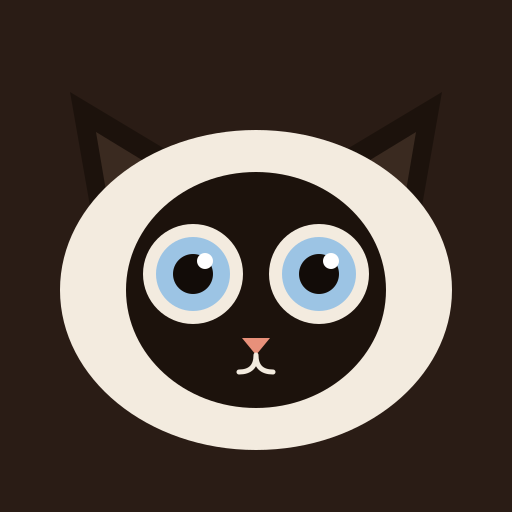
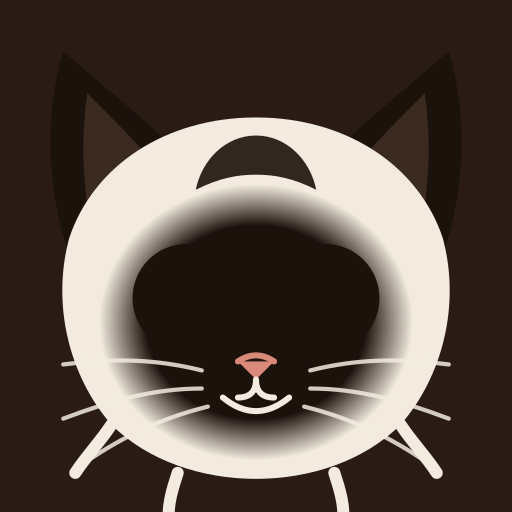
Azami en pied, une pose par page
Assise à l'accueil, balai au ménage, dans le cabas aux courses, à sa table de comptable pour l'argent, roulée en boule la nuit ; bouche ouverte quand elle miaule. Icône redessinée.

Claude-Session: https://claude.ai/code/session_01FmbBbPYR3Uqmj4jvUphPos

diff --git a/azami.js b/azami.js
@@ -1,0 +1,118 @@
+// Azami en pied, une pose par page. Dessin vectoriel seal point, yeux bleus.
+// Les parties (tête, yeux, museau) sont partagées ; le corps et l'accessoire changent.
+
+const C = { seal: '#1C120C', seal2: '#3A2A20', creme: '#F3EBDF', ombre: '#DCCFBB', bleu: '#9CC4E4', bleuF: '#4E7FAE', nez: '#D98A7A', langue: '#E07A80', blanc: '#FFFFFF', fauve: '#B8A48F', bois: '#8E6A45' };
+
+const DEFS = `<defs>
+  <radialGradient id="mask" cx="50%" cy="50%" r="50%"><stop offset="0" stop-color="${C.seal}"/><stop offset=".7" stop-color="${C.seal}"/><stop offset="1" stop-color="${C.seal}" stop-opacity="0"/></radialGradient>
+  <radialGradient id="iris" cx="40%" cy="35%" r="65%"><stop offset="0" stop-color="#D9EBF8"/><stop offset=".5" stop-color="${C.bleu}"/><stop offset="1" stop-color="${C.bleuF}"/></radialGradient>
+  <linearGradient id="point" x1="0" y1="0" x2="0" y2="1"><stop offset="0" stop-color="${C.creme}"/><stop offset="1" stop-color="${C.seal}"/></linearGradient>
+</defs>`;
+
+// Tête, repère local : centre du crâne en (0,0), largeur ~150. Oreilles orientables.
+function head({ earL = 0, earR = 0, open = 1, lookX = 0, lookY = 0, happy = false, lid = 0, mouth = 'smile', brows = false } = {}) {
+  const eye = (cx) => `
+    <circle cx="${cx}" cy="4" r="17" fill="${C.creme}"/>
+    <g style="transform:translate(${lookX}px,${lookY}px)">
+      <circle cx="${cx}" cy="4" r="12.5" fill="url(#iris)"/><circle cx="${cx}" cy="4.5" r="6.5" fill="#120C08"/>
+      <circle cx="${cx + 4}" cy="-1" r="3" fill="${C.blanc}"/><circle cx="${cx - 4}" cy="8" r="1.5" fill="${C.blanc}" opacity=".7"/>
+    </g>
+    ${happy ? `<circle cx="${cx}" cy="4" r="18" fill="${C.seal}"/><path d="M${cx - 13} 2 Q${cx} 16 ${cx + 13} 2" fill="none" stroke="${C.creme}" stroke-width="3" stroke-linecap="round"/>` : ''}
+    <g style="transform-origin:${cx}px -14px;transform:scaleY(${happy ? 0 : lid})"><circle cx="${cx}" cy="4" r="18" fill="${C.seal}"/></g>
+    ${happy ? '' : `<g class="blink" style="transform-origin:${cx}px -14px;transform:scaleY(0)"><circle cx="${cx}" cy="4" r="18" fill="${C.seal}"/></g>`}`;
+  const mouths = {
+    smile: `<path d="M0 31 Q0 37 -6 37 M0 31 Q0 37 6 37 M-11 37 Q0 46 11 37" fill="none" stroke="${C.creme}" stroke-width="2" stroke-linecap="round"/>`,
+    hmm:   `<path d="M0 31 Q0 37 -6 37 M0 31 Q0 37 6 37 M-8 41 Q0 39 9 42" fill="none" stroke="${C.creme}" stroke-width="2" stroke-linecap="round"/>`,
+    hungry:`<path d="M0 31 Q0 37 -6 37 M0 31 Q0 37 6 37" fill="none" stroke="${C.creme}" stroke-width="2" stroke-linecap="round"/><path d="M1 38 Q6 48 0 49 Q-5 49 -4 41" fill="${C.langue}" stroke="${C.creme}" stroke-width="1"/>`,
+    yawn:  `<ellipse cx="0" cy="40" rx="8" ry="9" fill="${C.seal2}" stroke="${C.creme}" stroke-width="1.6"/><path d="M-4 45 Q0 50 4 45 Z" fill="${C.langue}"/>`,
+    meow:  `<path d="M0 31 Q0 36 -5 36 M0 31 Q0 36 5 36" fill="none" stroke="${C.creme}" stroke-width="2" stroke-linecap="round"/><ellipse cx="0" cy="42" rx="6" ry="5.5" fill="${C.seal2}" stroke="${C.creme}" stroke-width="1.6"/>`,
+  };
+  return `<g class="head">
+    <g class="ear" style="transform-origin:-36px -22px;--r:${earL}deg;transform:rotate(${earL}deg)"><path d="M-62 -10 C-70 -34 -70 -58 -64 -78 C-48 -64 -32 -52 -18 -36 Z" fill="${C.seal}"/><path d="M-54 -16 C-58 -34 -58 -50 -56 -64 C-46 -54 -36 -44 -28 -34 Z" fill="${C.seal2}"/></g>
+    <g class="ear" style="transform-origin:36px -22px;--r:${earR}deg;transform:rotate(${earR}deg)"><path d="M62 -10 C70 -34 70 -58 64 -78 C48 -64 32 -52 18 -36 Z" fill="${C.seal}"/><path d="M54 -16 C58 -34 58 -50 56 -64 C46 -54 36 -44 28 -34 Z" fill="${C.seal2}"/></g>
+    <path d="M0 -56 C30 -56 54 -40 62 -16 C68 6 62 30 48 46 C36 58 18 64 0 64 C-18 64 -36 58 -48 46 C-62 30 -68 6 -62 -16 C-54 -40 -30 -56 0 -56 Z" fill="${C.creme}"/>
+    <path d="M-48 46 C-52 52 -56 56 -60 62 M48 46 C52 52 56 56 60 62 M-26 62 C-28 68 -29 72 -29 76 M26 62 C28 68 29 72 29 76" stroke="${C.creme}" stroke-width="4" stroke-linecap="round"/>
+    <ellipse cx="0" cy="12" rx="52" ry="46" fill="url(#mask)"/>
+    <path d="M0 -50 C10 -50 18 -42 20 -32 C12 -36 6 -37 0 -37 C-6 -37 -12 -36 -20 -32 C-18 -42 -10 -50 0 -50 Z" fill="${C.seal}" opacity=".9"/>
+    ${brows ? `<path d="M-42 -20 L-16 -10 M42 -20 L16 -10" stroke="${C.seal}" stroke-width="3.5" stroke-linecap="round"/>` : ''}
+    ${eye(-23)}${eye(23)}
+    <path d="M-6 25 L6 25 L0 31 Z" fill="${C.nez}"/><path d="M-6 25 Q0 21 6 25" fill="none" stroke="${C.nez}" stroke-width="2" stroke-linecap="round"/>
+    ${mouths[mouth] || mouths.smile}
+    <g stroke="${C.creme}" stroke-width="1.4" stroke-linecap="round" opacity=".85" fill="none"><path d="M-18 28 C-34 24 -48 24 -64 26 M-18 34 C-34 34 -48 38 -64 44 M-16 40 C-32 44 -44 50 -56 58 M18 28 C34 24 48 24 64 26 M18 34 C34 34 48 38 64 44 M16 40 C32 44 44 50 56 58"/></g>
+  </g>`;
+}
+
+// Corps assis de face : poitrail crème, pattes avant seal, queue seal.
+function sitBody({ tail = 'left' } = {}) {
+  const t = tail === 'left'
+    ? `<path d="M-58 150 C-100 150 -120 120 -112 92 C-108 78 -96 72 -88 78" fill="none" stroke="${C.seal}" stroke-width="16" stroke-linecap="round"/>`
+    : `<path d="M58 150 C100 150 120 120 112 92 C108 78 96 72 88 78" fill="none" stroke="${C.seal}" stroke-width="16" stroke-linecap="round"/>`;
+  return `<g class="body">
+    ${t}
+    <path d="M0 40 C44 40 76 70 78 112 C80 134 70 152 56 158 L-56 158 C-70 152 -80 134 -78 112 C-76 70 -44 40 0 40 Z" fill="${C.creme}"/>
+    <path d="M-70 128 C-70 140 -64 152 -56 158 L-28 158 C-30 146 -36 134 -46 126 Z M70 128 C70 140 64 152 56 158 L28 158 C30 146 36 134 46 126 Z" fill="${C.ombre}"/>
+    <path d="M-40 100 C-40 130 -40 150 -38 158 L-18 158 C-16 146 -18 128 -22 104 Z" fill="url(#point)"/>
+    <path d="M40 100 C40 130 40 150 38 158 L18 158 C16 146 18 128 22 104 Z" fill="url(#point)"/>
+    <ellipse cx="-29" cy="158" rx="13" ry="7" fill="${C.seal}"/><ellipse cx="29" cy="158" rx="13" ry="7" fill="${C.seal}"/>
+    <g fill="${C.seal2}"><circle cx="-36" cy="157" r="2"/><circle cx="-29" cy="155" r="2"/><circle cx="-22" cy="157" r="2"/><circle cx="22" cy="157" r="2"/><circle cx="29" cy="155" r="2"/><circle cx="36" cy="157" r="2"/></g>
+  </g>`;
+}
+
+const svg = (inner, vb = '-150 -90 300 270') => `<svg class="azami" viewBox="${vb}" aria-hidden="true">${DEFS}${inner}</svg>`;
+
+export const AZAMI = {
+  // Accueil : assise bien droite, queue enroulée, contente de vous voir.
+  maison: () => svg(sitBody({ tail: 'left' }) + head({ mouth: 'smile', lookX: 0, lookY: 0 })),
+
+  // Ménage : debout sur ses pattes arrière, balai dans les pattes, sourcils froncés.
+  menage: () => svg(`
+    <g class="body">
+      <path d="M46 170 C70 170 86 140 82 100 C78 70 48 56 24 62 L-24 62 C-48 56 -78 70 -82 100 C-86 140 -70 170 -46 170 Z" fill="${C.creme}"/>
+      <path d="M-30 110 C-32 140 -30 160 -26 170 L-6 170 C-4 150 -8 126 -14 108 Z M30 110 C32 140 30 160 26 170 L6 170 C4 150 8 126 14 108 Z" fill="url(#point)"/>
+      <ellipse cx="-18" cy="170" rx="14" ry="7" fill="${C.seal}"/><ellipse cx="18" cy="170" rx="14" ry="7" fill="${C.seal}"/>
+      <path d="M-70 168 C-110 160 -124 130 -112 104" fill="none" stroke="${C.seal}" stroke-width="14" stroke-linecap="round"/>
+      <g class="broom" style="transform-origin:62px 84px"><path d="M62 -60 L62 150" stroke="${C.bois}" stroke-width="6" stroke-linecap="round"/><path d="M44 148 L80 148 L90 178 L34 178 Z" fill="${C.fauve}"/><g stroke="${C.seal2}" stroke-width="1.6"><path d="M44 156 L40 176 M52 150 L50 178 M62 150 L62 178 M72 150 L74 178 M80 156 L84 176"/></g><rect x="52" y="140" width="20" height="9" rx="2" fill="${C.seal2}"/></g>
+      <path d="M-44 80 C-62 90 -66 106 -56 120" fill="none" stroke="${C.creme}" stroke-width="15" stroke-linecap="round"/><ellipse cx="-56" cy="122" rx="9" ry="8" fill="${C.seal}"/>
+      <path d="M44 76 C56 80 62 86 62 96" fill="none" stroke="${C.creme}" stroke-width="15" stroke-linecap="round"/><ellipse cx="62" cy="100" rx="9" ry="8" fill="${C.seal}"/>
+    </g>
+    ${head({ earL: -10, earR: 10, lid: .25, lookX: 2, mouth: 'hmm', brows: true })}`),
+
+  // Courses : assise dans un cabas en osier, une sardine dans la patte, la langue sortie.
+  courses: () => svg(`
+    <path d="M-100 90 L100 90 L88 176 L-88 176 Z" fill="${C.fauve}"/>
+    <g stroke="${C.seal2}" stroke-width="1.5" opacity=".6"><path d="M-96 108 L96 108 M-94 126 L94 126 M-92 144 L92 144 M-90 162 L90 162"/><path d="M-70 90 L-64 176 M-40 90 L-36 176 M-10 90 L-8 176 M20 90 L18 176 M50 90 L46 176 M80 90 L74 176"/></g>
+    <path d="M-60 90 C-60 50 60 50 60 90" fill="none" stroke="${C.bois}" stroke-width="7" stroke-linecap="round"/>
+    <g style="transform:translate(0,-10px) scale(.92)">
+      ${sitBody({ tail: 'right' })}
+    </g>
+    <g class="fish" style="transform-origin:90px 80px"><path d="M66 80 C80 64 102 64 116 80 C102 96 80 96 66 80 Z" fill="${C.bleu}"/><path d="M116 80 L132 70 L126 80 L132 90 Z" fill="${C.bleu}"/><circle cx="78" cy="77" r="2.5" fill="${C.seal}"/><path d="M96 72 C104 80 104 84 98 90" fill="none" stroke="${C.bleuF}" stroke-width="1.5"/></g>
+    <path d="M-100 90 L100 90 L96 118 L-96 118 Z" fill="${C.fauve}"/>
+    <path d="M-96 108 L96 108" stroke="${C.seal2}" stroke-width="1.5" opacity=".6"/>
+    ${head({ earL: 4, earR: -4, happy: true, mouth: 'hungry' })}`),
+
+  // Argent : à sa petite table, lunettes, piles de pièces, une pièce entre les coussinets.
+  argent: () => svg(`
+    ${sitBody({ tail: 'left' })}
+    <rect x="-120" y="118" width="240" height="12" rx="3" fill="${C.bois}"/><rect x="-108" y="130" width="10" height="46" fill="${C.bois}"/><rect x="98" y="130" width="10" height="46" fill="${C.bois}"/>
+    <g class="coins"><g fill="#E6C25A" stroke="#B8923A" stroke-width="2"><rect x="-100" y="106" width="36" height="7" rx="3"/><rect x="-100" y="98" width="36" height="7" rx="3"/><rect x="-100" y="90" width="36" height="7" rx="3"/><rect x="-100" y="82" width="36" height="7" rx="3"/><rect x="60" y="106" width="36" height="7" rx="3"/><rect x="60" y="98" width="36" height="7" rx="3"/><rect x="66" y="90" width="24" height="7" rx="3"/></g>
+    <g class="coin" style="transform-origin:0px 100px"><circle cx="0" cy="100" r="17" fill="#E6C25A" stroke="#B8923A" stroke-width="2.5"/><text x="0" y="106" text-anchor="middle" font-family="Hanken Grotesk, sans-serif" font-size="15" font-weight="800" fill="#8A6A20">1</text></g></g>
+    <path d="M-34 96 C-30 106 -22 112 -12 112 M34 96 C30 106 22 112 12 112" fill="none" stroke="${C.seal}" stroke-width="14" stroke-linecap="round"/>
+    ${head({ lookY: 7, lid: .18, mouth: 'hmm' })}
+    <g fill="none" stroke="${C.fauve}" stroke-width="2.5"><circle cx="-23" cy="4" r="21"/><circle cx="23" cy="4" r="21"/><path d="M-2 4 L2 4 M-44 2 L-60 -6 M44 2 L60 -6"/></g>`),
+
+  // Nuit : roulée en boule, queue sur le nez, petit ronflement.
+  nuit: () => svg(`
+    <ellipse cx="0" cy="120" rx="118" ry="58" fill="${C.creme}"/>
+    <path d="M-60 150 C-40 174 20 176 60 160" fill="none" stroke="${C.ombre}" stroke-width="10" stroke-linecap="round"/>
+    <path d="M110 120 C130 100 110 70 70 80 C40 88 20 100 0 106" fill="none" stroke="${C.seal}" stroke-width="16" stroke-linecap="round"/>
+    <ellipse cx="-78" cy="158" rx="16" ry="8" fill="${C.seal}"/><ellipse cx="-50" cy="164" rx="16" ry="8" fill="${C.seal}"/>
+    <g style="transform:translate(-30px,88px) rotate(-12deg) scale(.9)">${head({ earL: 10, earR: -6, lid: .9, lookY: 4, mouth: 'smile' })}</g>
+    <path class="zz" d="M70 10 L88 10 L70 28 L88 28" fill="none" stroke="${C.bleu}" stroke-width="3" stroke-linecap="round" stroke-linejoin="round"/>
+    <path class="zz z2" d="M96 -18 L108 -18 L96 -6 L108 -6" fill="none" stroke="${C.bleu}" stroke-width="2.5" stroke-linecap="round" stroke-linejoin="round"/>`),
+
+  // Miaulement : debout, bouche ouverte, utilisée un instant quand Azami miaule.
+  meow: () => svg(sitBody({ tail: 'right' }) + head({ earL: -4, earR: 4, happy: true, mouth: 'meow' })),
+
+  // Icône : tête seule, cadrée serré.
+  icon: () => svg(head({ mouth: 'smile' }), '-85 -95 170 170'),
+};

diff --git a/app.js b/app.js
@@ -1,6 +1,8 @@
 // Maison : l'app du foyer.
 // Sans configuration Supabase, l'app tourne en mode démo (données locales).
 
+import { AZAMI } from './azami.js';
+
 const CFG = window.MAISON_CONFIG || {};
 const DEMO = !(CFG.supabaseUrl && CFG.supabaseKey);
 const $app = document.getElementById('app');
@@ -24,6 +26,7 @@ const S = {
   recovery: false,     // arrivée par un lien « mot de passe oublié »
   showChoreForm: false,
   showExpenseForm: false,
+  meowing: false,
 };
 
 let api = null;
@@ -89,6 +92,8 @@ fetch('sounds/azami.m4a', { method: 'HEAD' }).then(r => { if (r.ok) meowFile = '
 let audioCtx = null;
 function meow(force) {
   if (!force && Math.random() > 0.18) return;
+  S.meowing = true; render();
+  setTimeout(() => { S.meowing = false; render(); }, 750);
   try {
     if (meowFile) { const a = new Audio(meowFile); a.volume = .6; a.play().catch(() => {}); return; }
     audioCtx ||= new (window.AudioContext || window.webkitAudioContext)();
@@ -309,18 +314,6 @@ const ICONS = {
   nuit: '<path d="M19 14.5A7.5 7.5 0 0 1 9.5 5a7.5 7.5 0 1 0 9.5 9.5z" fill="none" stroke="currentColor" stroke-width="1.6" stroke-linejoin="round"/>',
 };
 
-const FACE = `<svg class="face" viewBox="0 0 300 250" aria-hidden="true">
-  <g class="ear"><path d="M58 120 L40 20 L120 70 Z" fill="#1C120C"/><path d="M66 104 L56 46 L104 76 Z" fill="#3A2A20"/></g>
-  <g class="ear r"><path d="M242 120 L260 20 L180 70 Z" fill="#1C120C"/><path d="M234 104 L244 46 L196 76 Z" fill="#3A2A20"/></g>
-  <ellipse cx="150" cy="150" rx="118" ry="96" fill="#F3EBDF"/>
-  <ellipse cx="150" cy="150" rx="78" ry="70" fill="#1C120C"/>
-  <g><circle cx="112" cy="140" r="30" fill="#F3EBDF"/><g class="iris"><circle cx="112" cy="140" r="22" fill="#9CC4E4"/><circle cx="112" cy="140" r="12" fill="#120C08"/><circle cx="119" cy="132" r="5" fill="#fff"/></g><rect class="lid" x="80" y="108" width="64" height="64" rx="32" fill="#1C120C"/></g>
-  <g><circle cx="188" cy="140" r="30" fill="#F3EBDF"/><g class="iris"><circle cx="188" cy="140" r="22" fill="#9CC4E4"/><circle cx="188" cy="140" r="12" fill="#120C08"/><circle cx="195" cy="132" r="5" fill="#fff"/></g><rect class="lid" x="156" y="108" width="64" height="64" rx="32" fill="#1C120C"/></g>
-  <path d="M142 178 L158 178 L150 188 Z" fill="#E8907A"/>
-  <path d="M150 188 Q150 198 140 198 M150 188 Q150 198 160 198" fill="none" stroke="#F3EBDF" stroke-width="3" stroke-linecap="round"/>
-  <g stroke="#F3EBDF" stroke-width="2" stroke-linecap="round" opacity=".8"><path d="M96 184 L50 176 M98 192 L52 196 M204 184 L250 176 M202 192 L248 196"/></g>
-</svg>`;
-
 function nav() {
   const openShop = S.shopping.filter(s => !s.checked).length;
   const unread = S.care.filter(c => c.recipient === S.me && !c.read_at).length;
@@ -428,7 +421,7 @@ function viewMaison() {
   lines.push([shop > 1 ? 'Articles sur la liste de courses' : 'Article sur la liste de courses', shop, 'courses', false]);
 
   return `<header class="hd centered">
-    <button class="face-btn" data-action="meow" aria-label="Azami">${FACE}</button>
+    <button class="azami-btn" data-action="meow" aria-label="Azami">${S.meowing ? AZAMI.meow() : AZAMI.maison()}</button>
     <h1>${hello} ${esc(firstName())}</h1><p class="hd-kicker">${esc(date)}</p></header>
     <div class="glance">${lines.map(([label, num, to, late]) =>
       `<button class="${late ? 'late' : ''}" data-action="glance" data-to="${to}"><span>${esc(label)}</span><span class="g-num">${esc(num)}</span></button>`).join('')}</div>
@@ -495,7 +488,7 @@ function viewMenage() {
   const max = Math.max(1, ...counts.map(c => c[1]));
   const who = S.members.map(m => [m.email, m.email === S.me ? 'Moi' : m.name]);
 
-  return `<header class="hd"><p class="hd-kicker">Corvées et tournus</p><h1>Ménage</h1></header>
+  return `<header class="hd row"><div><p class="hd-kicker">Corvées et tournus</p><h1>Ménage</h1></div><button class="azami-btn" data-action="meow" aria-label="Azami">${S.meowing ? AZAMI.meow() : AZAMI.menage()}</button></header>
     ${chores.length ? `<div>${chores.map(c => {
       const st = choreStatus(c);
       const mine = c.turn === S.me;
@@ -531,7 +524,7 @@ function viewCourses() {
   const cart = S.shopping.filter(s => s.checked);
   const item = s => `<li class="item"><button class="tick" role="checkbox" aria-checked="${s.checked}" aria-label="${esc(s.label)}" data-action="shop-toggle" data-id="${s.id}"></button>
     <div class="item-main"><div class="item-title">${esc(s.label)}</div>${s.added_by !== S.me ? `<div class="item-meta">Ajouté par ${esc(nameOf(s.added_by))}</div>` : ''}</div></li>`;
-  return `<header class="hd"><p class="hd-kicker">${todo.length ? pl(todo.length, 'article', 'articles') : 'Liste vide'}</p><h1>Courses</h1></header>
+  return `<header class="hd row"><div><p class="hd-kicker">${todo.length ? pl(todo.length, 'article', 'articles') : 'Liste vide'}</p><h1>Courses</h1></div><button class="azami-btn" data-action="meow" aria-label="Azami">${S.meowing ? AZAMI.meow() : AZAMI.courses()}</button></header>
     <form class="form row" data-form="shop">
       <div class="grow"><label class="sr" for="shop-label">Article</label>
       <input class="field" id="shop-label" data-keep name="label" placeholder="Ajouter (sépare par des virgules)" autocomplete="off" enterkeyhint="done" required></div>
@@ -586,7 +579,7 @@ function viewArgent() {
       }).join('')}</ul>`;
   }).join('');
 
-  return `<header class="hd"><p class="hd-kicker">Dépenses partagées</p><h1>Argent</h1></header>
+  return `<header class="hd row"><div><p class="hd-kicker">Dépenses partagées</p><h1>Argent</h1></div><button class="azami-btn" data-action="meow" aria-label="Azami">${S.meowing ? AZAMI.meow() : AZAMI.argent()}</button></header>
     <p class="balance">${sentence}</p>
     ${Math.abs(net) >= 0.01 ? `<button class="link" data-action="settle">${net < 0 ? `J'ai remboursé ${esc(nameOf(o))}` : `${esc(nameOf(o))} m'a remboursé`}</button>` : ''}
 
@@ -610,7 +603,7 @@ function viewArgent() {
 // Nuit : care et libido
 
 function viewNuit() {
-  return `<header class="hd"><p class="hd-kicker">Rien que pour vous deux</p><h1>Nuit</h1></header>
+  return `<header class="hd row"><div><p class="hd-kicker">Rien que pour vous deux</p><h1>Nuit</h1></div><button class="azami-btn" data-action="meow" aria-label="Azami">${S.meowing ? AZAMI.meow() : AZAMI.nuit()}</button></header>
     <div class="seg" role="group" aria-label="Affichage">
       <button data-action="nuit-tab" data-tab="care" aria-pressed="${S.nuitTab === 'care'}">Care</button>
       <button data-action="nuit-tab" data-tab="libido" aria-pressed="${S.nuitTab === 'libido'}">Libido</button>

diff --git a/styles.css b/styles.css
@@ -232,20 +232,31 @@ details.fold[open] > summary::before { content: "− "; }
 .glance .g-num { font-weight: 800; font-size: 18px; flex: none; }
 .glance .late { color: var(--bleu); font-weight: 700; }
 
-/* Azami : le visage en tête de l'écran Maison ---------------------------- */
+/* Azami : une pose par page, animée doucement ------------------------- */
 
-.face { display: block; width: 150px; height: 125px; margin: 8px auto 2px; }
-.face .ear { transform-origin: 50% 100%; transform-box: fill-box; animation: twitch 7s ease-in-out infinite; }
-.face .ear.r { animation-delay: 3.5s; }
-@keyframes twitch { 0%, 80%, 100% { transform: rotate(0); } 85% { transform: rotate(-8deg); } 90% { transform: rotate(3deg); } }
-.face .lid { transform-origin: 50% 0; transform-box: fill-box; transform: scaleY(0); animation: blink 6s ease-in-out infinite; }
+.azami { display: block; width: 190px; height: 171px; margin: 4px auto 0; }
+.azami-btn { all: unset; cursor: pointer; display: block; width: 190px; margin: 0 auto; }
+.azami-btn:focus-visible { outline: 2px solid var(--bleu); outline-offset: 4px; border-radius: 20px; }
+.azami .blink { animation: blink 6s ease-in-out infinite; }
+.azami .eye + .eye .blink { animation-delay: .05s; }
 @keyframes blink { 0%, 90%, 100% { transform: scaleY(0); } 93% { transform: scaleY(1); } }
-.face .iris { animation: look 11s ease-in-out infinite; }
-@keyframes look { 0%, 25% { transform: translate(0, 0); } 35%, 55% { transform: translate(-5px, 3px); } 65%, 85% { transform: translate(4px, -2px); } 100% { transform: translate(0, 0); } }
-.face-btn { all: unset; cursor: pointer; display: block; width: 150px; margin: 0 auto; }
-.face-btn:focus-visible { outline: 2px solid var(--bleu); outline-offset: 4px; border-radius: 50%; }
+.azami .ear { animation: twitch 7s ease-in-out infinite; }
+.azami .ear + .ear { animation-delay: 3.5s; }
+@keyframes twitch { 0%, 82%, 100% { transform: rotate(var(--r, 0deg)); } 86% { transform: rotate(calc(var(--r, 0deg) - 8deg)); } 90% { transform: rotate(calc(var(--r, 0deg) + 3deg)); } }
+.azami .coin { animation: flip 4s ease-in-out infinite; }
+@keyframes flip { 0%, 70%, 100% { transform: scaleX(1); } 85% { transform: scaleX(-1); } }
+.azami .zz { animation: float 3s ease-in-out infinite; opacity: 0; }
+.azami .z2 { animation-delay: 1.2s; }
+@keyframes float { 0% { transform: translateY(6px); opacity: 0; } 30%, 60% { opacity: 1; } 100% { transform: translateY(-14px); opacity: 0; } }
+.azami .fish { animation: wiggle 2.4s ease-in-out infinite; }
+@keyframes wiggle { 0%, 100% { transform: rotate(0); } 50% { transform: rotate(-8deg); } }
+.azami .broom { animation: sweep 3s ease-in-out infinite; }
+@keyframes sweep { 0%, 100% { transform: rotate(0); } 50% { transform: rotate(-6deg); } }
 .hd.centered { text-align: center; }
 .hd.centered .hd-kicker { margin-top: 6px; }
+.hd.row { display: grid; grid-template-columns: 1fr auto; align-items: end; gap: 10px; }
+.hd.row .azami { width: 132px; height: 119px; margin: 0; }
+.hd.row .azami-btn { width: 132px; margin: 0; }
 
 /* Tableau ---------------------------------------------------------------- */
 
